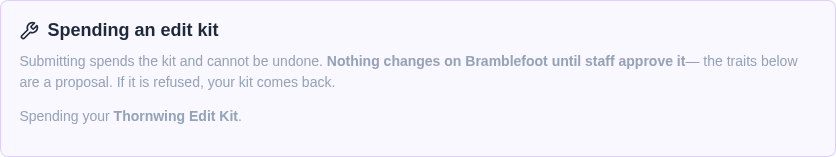
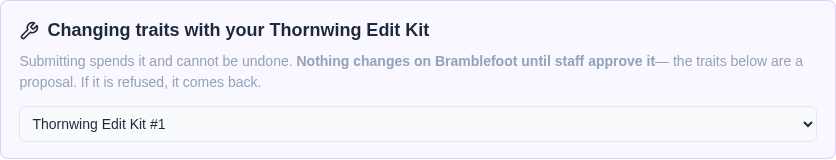
fix(edit-kits): call the item what the community called it
"Edit kit" is our word for the feature. Members never chose it and never see
it anywhere else -- they see whatever their community named the item type. The
MYO flow already got this right ("Making a character with your Thornwing MYO
Ticket"); this one was saying "edit kit" at every turn.

Now named wherever an item is actually in hand: the spend page's heading, its
submit button and its success toast, and the character page's offer. Where
none is in hand -- the "you hold nothing that works here" refusal -- it says
what the item would do rather than inventing a name for it. The staff panel
uses its own heading, "Edits on use", instead.

Also trims the docs callout. It made the useful point -- members cannot edit
their own traits, so this is the only route -- and then went on to deny a
design alternative the reader had never considered. The second half is gone.

The docs page keeps "edit kit" as its shorthand and now says so, the way the
MYO page does: there is no such object, you name the item type yourself.

Drops the submit-button screenshot. It was a lone purple button on a white
field, captioned to say the thing the button already said.

Claude-Session: https://claude.ai/code/session_018NxGrkyN4AUSNc6YaczyMN

diff --git a/apps/frontend/src/pages/SpendEditKitPage.tsx b/apps/frontend/src/pages/SpendEditKitPage.tsx
@@ -151,6 +151,9 @@ export const SpendEditKitPage: React.FC = () => {
     setKitId(eligibleKits[0].id);
   }, [kitId, eligibleKits]);
 
+  /** The kit actually being spent, so the page can call it by its name. */
+  const chosenKit = eligibleKits.find((k) => k.id === kitId) ?? null;
+
   const [traitValues, setTraitValues] = useState<CharacterTraitValueInput[]>(
     [],
   );
@@ -177,7 +180,11 @@ export const SpendEditKitPage: React.FC = () => {
       cache.gc();
     },
     onCompleted: () => {
-      toast.success("Sent to staff for review. Your kit has been spent.");
+      toast.success(
+        chosenKit
+          ? `Sent to staff for review. Your ${chosenKit.name} has been spent.`
+          : "Sent to staff for review. Your item has been spent.",
+      );
       navigate(`/character/${characterId}`);
     },
     onError: (error) => toast.error(error.message),
@@ -204,7 +211,7 @@ export const SpendEditKitPage: React.FC = () => {
     : pending
       ? "That character already has a change awaiting review. Only one at a time."
       : eligibleKits.length === 0
-        ? "You do not hold an edit kit that works on this character."
+        ? "You do not hold an item that can change this character's traits."
         : null;
 
   if (blocked) {
@@ -242,17 +249,22 @@ export const SpendEditKitPage: React.FC = () => {
       <Title>Edit {character.name}&rsquo;s traits</Title>
 
       <Panel data-testid="edit-kit-panel">
+        {/* Named, not called an "edit kit". That is our word for the feature;
+            the community called the item something, and that is what its
+            holder recognises. Falls back only when several are eligible and
+            none is picked yet. */}
         <PanelHead>
           <Wrench size={20} />
-          Spending an edit kit
+          {chosenKit
+            ? `Changing traits with your ${chosenKit.name}`
+            : `Changing ${character.name}'s traits`}
         </PanelHead>
         <Note>
-          Submitting spends the kit and cannot be undone.{" "}
+          Submitting spends it and cannot be undone.{" "}
           <strong>
             Nothing changes on {character.name} until staff approve it
           </strong>
-          — the traits below are a proposal. If it is refused, your kit comes
-          back.
+          — the traits below are a proposal. If it is refused, it comes back.
         </Note>
 
         {eligibleKits.length > 1 ? (
@@ -261,7 +273,7 @@ export const SpendEditKitPage: React.FC = () => {
             data-testid="edit-kit-select"
             onChange={(e) => setKitId(e.target.value || null)}
           >
-            <option value="">Pick a kit to spend…</option>
+            <option value="">Pick which one to spend…</option>
             {eligibleKits.map((kit, i) => (
               <option key={kit.id} value={kit.id}>
                 {kit.name} #{i + 1}
@@ -290,7 +302,11 @@ export const SpendEditKitPage: React.FC = () => {
           disabled={spending || !kitId}
           data-testid="submit-edit-kit"
         >
-          {spending ? "Spending kit…" : "Spend kit and send for review"}
+          {spending
+            ? "Spending…"
+            : chosenKit
+              ? `Spend ${chosenKit.name} and send for review`
+              : "Spend it and send for review"}
         </Button>
       </ButtonRow>
     </Container>

diff --git a/apps/frontend/src/components/items/ItemUseTraitEditGrantEditor.tsx b/apps/frontend/src/components/items/ItemUseTraitEditGrantEditor.tsx
@@ -81,8 +81,8 @@ export const ItemUseTraitEditGrantEditor: React.FC<Props> = ({
       <Wrap data-testid="trait-edit-grant-editor">
         <Head>Edits on use</Head>
         <Hint>
-          Only a consumable item can be an edit kit. Spending it is what uses it
-          up, and without that the same kit could buy an edit over and over.
+          Only a consumable item can edit traits. Spending it is what uses it
+          up, and without that the same item could buy an edit over and over.
         </Hint>
       </Wrap>
     );
@@ -100,7 +100,9 @@ export const ItemUseTraitEditGrantEditor: React.FC<Props> = ({
       await save({
         variables: { input: { itemTypeId: itemType.id, species: chosen } },
       });
-      toast.success(chosen.length ? "Edit kit saved" : "Edit kit cleared");
+      toast.success(
+        chosen.length ? "Edits on use saved" : "Edits on use cleared",
+      );
     } catch (err) {
       toast.error(err instanceof Error ? err.message : "Could not save that");
     }
@@ -113,8 +115,8 @@ export const ItemUseTraitEditGrantEditor: React.FC<Props> = ({
         Spending one destroys it and lets its holder propose a change to one of
         their characters&rsquo; traits, which then goes to trait review. Tick
         the species it works on; leave a species&rsquo; variants unticked to
-        cover all of them. Untick everything to clear it. An item type cannot
-        both pay out and edit traits.
+        cover all of them. Untick everything to clear it. An item type does one
+        thing when used, so this cannot sit beside a payout or an MYO grant.
       </Hint>
 
       {species.length === 0 ? (
@@ -137,7 +139,7 @@ export const ItemUseTraitEditGrantEditor: React.FC<Props> = ({
           disabled={loading}
           data-testid="save-trait-edit-grant"
         >
-          {loading ? "Saving…" : "Save edit kit"}
+          {loading ? "Saving…" : "Save edits on use"}
         </Button>
       </Actions>
     </Wrap>

diff --git a/apps/frontend/src/pages/CharacterPage.tsx b/apps/frontend/src/pages/CharacterPage.tsx
@@ -489,12 +489,21 @@ export const CharacterPage: React.FC = () => {
       !user?.id,
   });
 
-  const eligibleKitCount = useMemo(() => {
-    if (!character) return 0;
-    return (kitsData?.memberHoldings?.holdings ?? []).filter((h) => {
-      const grant = h.itemType.useTraitEditGrant;
-      return grant ? kitCovers(grant, character) : false;
-    }).length;
+  /**
+   * The item types this viewer holds that can edit this character.
+   *
+   * Names rather than a count, because the button should call the item what
+   * the community called it. "Edit kit" is our word for the feature, not
+   * anything a member has seen.
+   */
+  const eligibleKitTypes = useMemo(() => {
+    if (!character) return [] as string[];
+    return (kitsData?.memberHoldings?.holdings ?? [])
+      .filter((h) => {
+        const grant = h.itemType.useTraitEditGrant;
+        return grant ? kitCovers(grant, character) : false;
+      })
+      .map((h) => h.itemType.name);
   }, [kitsData, character]);
 
   /**
@@ -747,7 +756,7 @@ export const CharacterPage: React.FC = () => {
               strip rather than inside it. Offered only when they actually
               hold a kit that works on this character -- a button whose every
               press is a refusal is the thing this codebase keeps not doing. */}
-          {eligibleKitCount > 0 && (
+          {eligibleKitTypes.length > 0 && (
             <CharacterActions data-testid="character-edit-kit-actions">
               <AdminActionsLabel>Yours</AdminActionsLabel>
               <Button
@@ -758,7 +767,9 @@ export const CharacterPage: React.FC = () => {
                   navigate(`/character/${character.id}/edit-traits`)
                 }
               >
-                Use an edit kit
+                {eligibleKitTypes.length === 1
+                  ? `Use your ${eligibleKitTypes[0]}`
+                  : "Change traits with an item"}
               </Button>
             </CharacterActions>
           )}

diff --git a/docs/docs/edit-kits.html b/docs/docs/edit-kits.html
@@ -275,15 +275,22 @@
             granted, sold in the shop, and it has a provenance page like
             anything else.
           </p>
+          <p>
+            <em>Edit kit</em> is this page&rsquo;s shorthand. There is no
+            &ldquo;edit kit&rdquo; object in CharDB, and the app never uses the
+            phrase: you name the item type yourself &mdash;
+            <em>Trait Change Ticket</em>, <em>Redesign Voucher</em>,
+            <em>Thornwing Edit Kit</em> &mdash; and that name is what members
+            see wherever one is in hand.
+          </p>
 
           <div class="highlight-box">
             <strong>Members cannot normally change their own
             characters&rsquo; traits at all.</strong> The stock
             <em>Member</em> role does not carry the
             <em>edit own character registry</em> permission &mdash; only Admin
-            and Moderator do. So a kit is not a way round a setting you have to
-            remember to switch off; it is the only self-service route to a
-            trait change there is.
+            and Moderator do. A kit is the only self-service route to a trait
+            change there is.
           </div>
 
           <div class="feature-list">
@@ -546,15 +553,6 @@
           <div class="screenshot-caption">
             The panel says both things that matter: the kit goes, and the
             character does not change yet.
-          </div>
-        </div>
-        <div class="screenshot">
-          <img
-            src="edit-kit-submit.png"
-            alt="The submit button, reading Spend kit and send for review."
-          />
-          <div class="screenshot-caption">
-            The button says what it costs.
           </div>
         </div>
         <div class="step-content">
